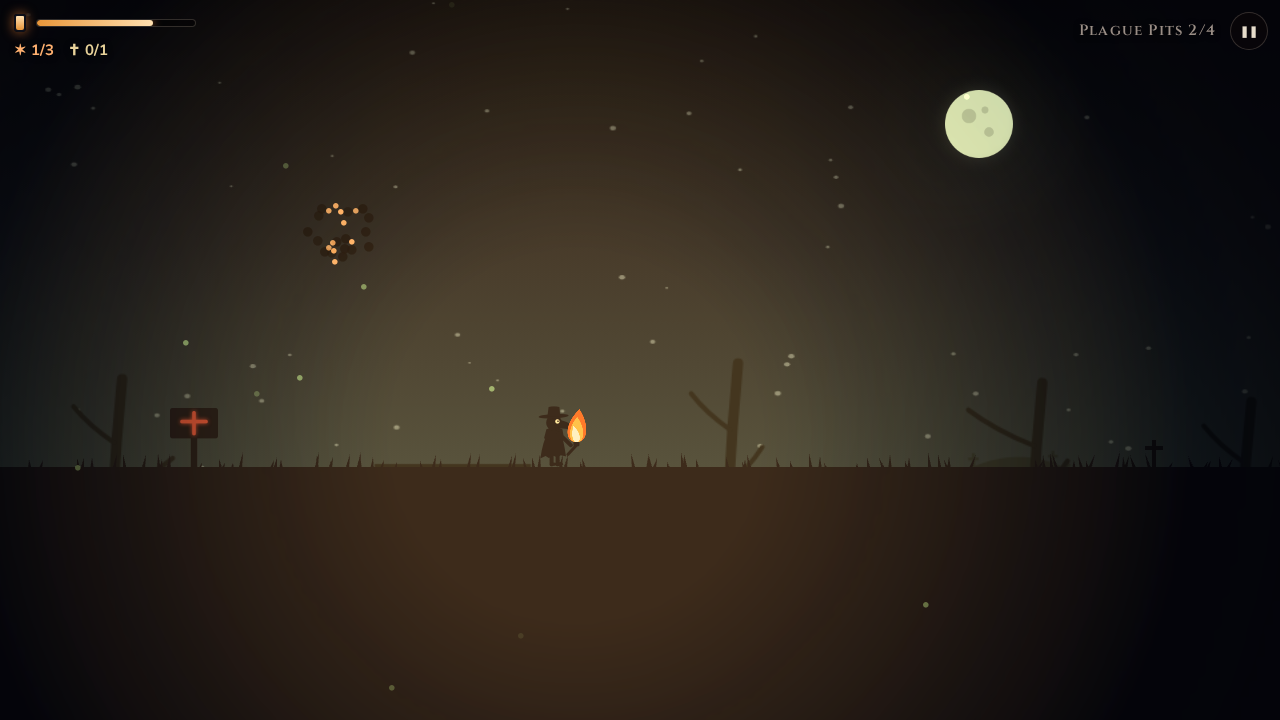
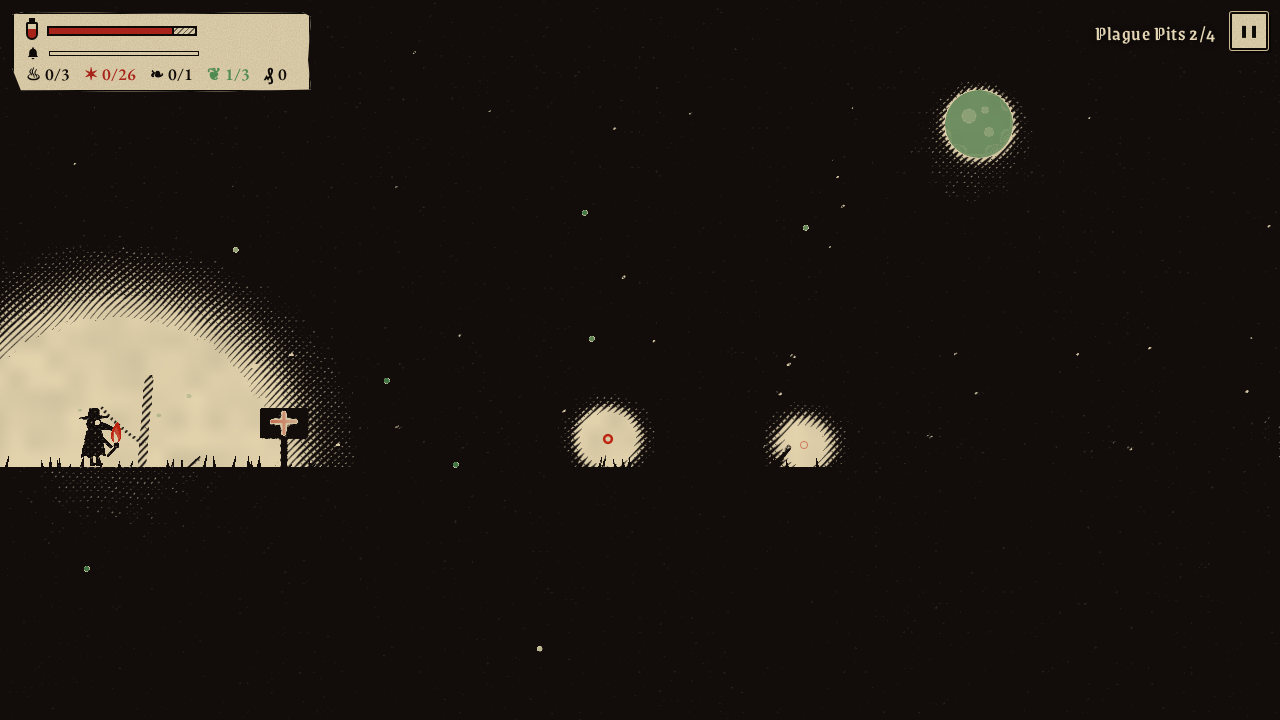
README s novými snímkami, opravené štatistiky denníka a zachránených
- README popisuje všetky nové prvky a má nové zábery v drevorezovom štýle (staré snímky odstránené).
- Štatistiky po leveli a na konci hry ukazujú strany denníka a počet zachránených (predtým ostali staré texty o relikviách).
- CLAUDE.md aktualizovaný.

Claude-Session: https://claude.ai/code/session_01Rh6E1MXbNhhRiwvBzFcm3J

diff --git a/src/ui/i18n.ts b/src/ui/i18n.ts
@@ -153,10 +153,10 @@ const en = {
   diedShade: 'The wraith took your breath…',
   diedGhoul: 'The infected tore you apart…',
   levelDone: 'The pyre burns',
-  stats: 'Embers {f}/{ft} · Relics {c}/{ct} · Time {time} · Deaths {d}',
+  stats: 'Embers {f}/{ft} · Diary pages {c}/{ct} · Time {time} · Deaths {d}',
   next: 'Next',
   replay: 'Replay',
-  victoryStats: 'Embers {f}/{ft} · Relics {c}/{ct} · Deaths {d}',
+  victoryStats: 'Saved {s}/{st} · Diary pages {c}/{ct} · Deaths {d}',
   comingSoon: 'Thank you for playing Miasma.',
   toMenu: 'Main menu',
   paused: 'Paused',
@@ -322,10 +322,10 @@ const sk: Record<Key, string> = {
   diedShade: 'Prízrak ti vzal dych…',
   diedGhoul: 'Nakazení ťa roztrhali…',
   levelDone: 'Hranica horí',
-  stats: 'Uhlíky {f}/{ft} · Relikvie {c}/{ct} · Čas {time} · Smrti {d}',
+  stats: 'Uhlíky {f}/{ft} · Strany denníka {c}/{ct} · Čas {time} · Smrti {d}',
   next: 'Ďalej',
   replay: 'Znova',
-  victoryStats: 'Uhlíky {f}/{ft} · Relikvie {c}/{ct} · Smrti {d}',
+  victoryStats: 'Zachránení {s}/{st} · Strany denníka {c}/{ct} · Smrti {d}',
   comingSoon: 'Ďakujeme, že si hral Miasmu.',
   toMenu: 'Hlavné menu',
   paused: 'Pauza',
@@ -489,10 +489,10 @@ const cs: Record<Key, string> = {
   diedShade: 'Přízrak ti vzal dech…',
   diedGhoul: 'Nakažení tě roztrhali…',
   levelDone: 'Hranice hoří',
-  stats: 'Uhlíky {f}/{ft} · Relikvie {c}/{ct} · Čas {time} · Smrti {d}',
+  stats: 'Uhlíky {f}/{ft} · Strany deníku {c}/{ct} · Čas {time} · Smrti {d}',
   next: 'Dál',
   replay: 'Znovu',
-  victoryStats: 'Uhlíky {f}/{ft} · Relikvie {c}/{ct} · Smrti {d}',
+  victoryStats: 'Zachránění {s}/{st} · Strany deníku {c}/{ct} · Smrti {d}',
   comingSoon: 'Děkujeme, že jsi hrál Miasmu.',
   toMenu: 'Hlavní menu',
   paused: 'Pauza',

diff --git a/README.md b/README.md
@@ -1,48 +1,62 @@
 # Miasma
 
-A dark silhouette platformer for adults. The plague has taken the city. You are the last plague doctor, and you carry the last fire.
+A dark platformer for adults, drawn like a medieval woodcut. The plague has taken the city. You are the last plague doctor: a torch in one hand, a cane in the other.
 
 **▶ Play online: https://darangonaut.github.io/miasma/**
 
 ![Miasma title screen](docs/screenshots/title.png)
 
-Miasma is the grim older sibling of [Lumen](https://github.com/darangonaut/lumen). It runs on the same engine but has a new hero, a new world and much less mercy:
+Miasma started as the grim older sibling of [Lumen](https://github.com/darangonaut/lumen), but it plays very differently:
 
-- **One touch kills.** Wraiths, the infected and iron spikes give no second chance.
-- **Fair warning.** Before a wraith strikes, it freezes and its eyes turn red. That is your moment.
-- **The torch burns fast.** Pitch runs out quickly, embers are rare and shrines are far apart. In total darkness you last only seconds.
-- **Enemies hunt.** The infected see your fire and come for you. You can outrun them, jump on their heads, throw a spark or flare the torch and burn them.
+- **Your light gives you away.** The bigger the flame, the farther the infected see you. A flared torch calls every infected far around, while a dying spark or a burning barricade lures them away. Rats are the opposite: they fear the light, and they tear you apart the moment you hide the torch or run out of pitch.
+- **The doctor’s cane.** Strike the infected to knock them back. Two blows fell one, and one blow into a pit, onto spikes or into the sewage is enough. Jumping on heads no longer helps.
+- **A mission in every quarter.** Burn all the plague nests (piles of shrouded bodies under a plague flag). Only then will the pyre at the end of the path light.
+- **The plague bell.** Every so often the bell tolls and the infected pour into the streets after you. Hide the torch and they only find the spot where you stood.
+- **Survivors and a choice.** Herbs go into your satchel (up to 3). Use one to cure your own infection, or give it to a survivor who begs for help. Those left behind turn when the bell tolls.
+- **An apothecary between levels.** The council pays you in groschen for the saved, the diary pages, the nests and the coins you find. Buy herbs, a larger flask, a better mask or an iron-shod cane.
+- **Cellars and locked houses.** Drop into cellars under the street for keys and coins. A key opens a house door with loot behind it, while the main path goes over the roof.
+- **A story with three endings.** Sixteen pages of the doctor’s diary tell what the council really wanted and what grows under his cloak. How the game ends depends on how many people you saved.
 
-Three mechanics are new to Miasma:
+Miasma also keeps the hard core of the original:
 
-- **Miasma.** Green plague clouds infect you, and full infection kills. Get through fast or burn the cloud away with a flared torch, because fire purifies. Healing herbs cure the infection.
-- **Burning barricades.** Plague barricades are too high to jump. Set them on fire with a spark or the torch, and the fire spreads to the planks next to them. It costs pitch.
-- **Hiding the torch.** Hold ↓ to hide the torch under your cloak. The infected stop seeing you and wraiths lose your trail, but you move slowly and the darkness starts to swallow you.
+- **One touch kills.** Wraiths, the infected, rats and iron spikes give no second chance.
+- **Fair warning.** Before a wraith strikes, it freezes and its eyes turn red.
+- **The torch burns fast.** In total darkness you last only seconds.
+- **Miasma, barricades, a hidden torch.** Green plague clouds infect you, and a flared torch burns them away. Plague barricades must be set on fire. Hold ↓ to hide the torch under your cloak.
+
+<table>
+<tr>
+<td><img src="docs/screenshots/quarter.png" alt="The cane"><br><sub>The cane against the infected, under a blood moon</sub></td>
+<td><img src="docs/screenshots/nest.png" alt="A burning plague nest"><br><sub>A plague nest burns while lightning tears the sky open</sub></td>
+</tr>
+<tr>
+<td><img src="docs/screenshots/barricade.png" alt="A burning barricade"><br><sub>A plague barricade in flames, which lures the infected</sub></td>
+<td><img src="docs/screenshots/survivor.png" alt="A survivor"><br><sub>A survivor begs for a herb: their life or yours?</sub></td>
+</tr>
+<tr>
+<td><img src="docs/screenshots/miasma.png" alt="Miasma"><br><sub>Catacombs: green miasma and the infection rising</sub></td>
+<td><img src="docs/screenshots/rats.png" alt="Rats"><br><sub>Rats wait at the edge of the light</sub></td>
+</tr>
+<tr>
+<td><img src="docs/screenshots/diary.png" alt="Diary page"><br><sub>A page from the plague doctor’s diary</sub></td>
+<td><img src="docs/screenshots/shop.png" alt="Apothecary"><br><sub>The apothecary after a level</sub></td>
+</tr>
+<tr>
+<td><img src="docs/screenshots/pits.png" alt="Plague Pits"><br><sub>Plague Pits: wind, graves and a sickly moon</sub></td>
+<td><img src="docs/screenshots/cathedral.png" alt="The Cathedral"><br><sub>The Cathedral: arches in the dark</sub></td>
+</tr>
+</table>
 
 ## Four worlds
 
 |     | World                  | What awaits you                                                 |
 | --- | ---------------------- | --------------------------------------------------------------- |
-| 1   | **Quarantine Quarter** | rain, a blood moon, rooftops, rotten planks, the first infected |
-| 2   | **Catacombs**          | foul sewage, slimy stones, falling masonry, swarms of flies     |
+| 1   | **Quarantine Quarter** | rain, a blood moon, rooftops, barricades, the first infected    |
+| 2   | **Catacombs**          | sewage, slimy stones, rat nests, miasma rising from the bones   |
 | 3   | **Plague Pits**        | an open cemetery, wind in gusts, lightning, great wraiths       |
-| 4   | **The Cathedral**      | hanging platforms, the bell tower, the crypt and the final pyre |
+| 4   | **The Cathedral**      | hanging platforms, the bell tower, the crypt and the great pyre |
 
-Each world has 4 levels, 16 in total. At the end of every path you light a pyre, because fire purifies.
-
-<table>
-<tr>
-<td><img src="docs/screenshots/quarter.png" alt="Quarantine Quarter"><br><sub>Quarantine Quarter: rain and a blood moon over the plague city</sub></td>
-<td><img src="docs/screenshots/wraiths.png" alt="Plague wraiths"><br><sub>A flared torch burns everything close, but eats pitch quickly</sub></td>
-</tr>
-<tr>
-<td><img src="docs/screenshots/catacombs.png" alt="Catacombs"><br><sub>Catacombs: walls of skulls and foul sewage</sub></td>
-<td><img src="docs/screenshots/pits.png" alt="Plague Pits"><br><sub>Plague Pits: gravestones, dead trees and a sickly moon</sub></td>
-</tr>
-<tr>
-<td colspan="2"><img src="docs/screenshots/cathedral.png" alt="The Cathedral"><br><sub>The Cathedral: stained glass faintly glowing in the dark</sub></td>
-</tr>
-</table>
+Each world has 4 levels, 16 in total.
 
 ## How to play
 
@@ -50,14 +64,15 @@ Each world has 4 levels, 16 in total. At the end of every path you light a pyre,
 | ---------------------------- | ---------------- | -------- |
 | Walk                         | ← → / A D        | ◀ ▶      |
 | Jump (hold to float further) | Space / ↑ / W    | ⤒        |
+| Strike with the cane         | V / E            | ⚚        |
 | Throw a spark                | C / F            | ✸        |
 | Flare the torch              | Shift / X (hold) | ✦ (hold) |
+| Hide the torch               | ↓ / S (hold)     | ◐ (hold) |
+| Use or give a herb           | Q / H            | ❦        |
 | Pause                        | Esc / P          | ❚❚       |
 
-- **Embers** keep the torch burning. **Relics** are hidden secrets.
+- The scrap of paper in the HUD shows the pitch flask, the infection, the time until the next bell, burnt nests ♨, embers ✶, diary pages ❧, herbs ❦, groschen ₰ and keys ⚷.
 - **Shrines** are checkpoints. Light the candle to save your progress and refill the torch.
-- Jump on enemies' heads, throw sparks or flare the torch. A great wraith takes three hits.
-- On the cemetery, jump when the wind dies down. Standing still, it can't move you, and behind a gravestone you are sheltered.
 
 ## Languages and mobile
 
@@ -67,7 +82,7 @@ English (default), Slovak and Czech; switch on the title screen. The game works 
 
 ## Development
 
-TypeScript, Vite and PixiJS 8. All graphics are vector shapes drawn in code, and all music and sound effects are synthesized with the Web Audio API, so there are no image or audio files.
+TypeScript, Vite and PixiJS 8. The graphics are vector shapes drawn in code. A full-screen shader (`src/render/woodcut.ts`) turns them into a woodcut: yellowed paper, hatching that gets denser in the shadows, solid black darkness, and colour only for fire (vermilion) and plague (verdigris). Music and sound effects are synthesized with the Web Audio API. The music is a Gregorian-style chant: a male choir built from formant filters, an ison drone and a tolling bell. There are no image or audio files.
 
 ```bash
 npm install
@@ -76,7 +91,8 @@ npm test             # tests, including a bot that proves every level can be fin
 npm run deploy:pages # build and publish to GitHub Pages
 ```
 
-- `src/game/` holds pure game logic (no PixiJS or DOM).
-- Levels are ASCII maps generated by `scripts/build_levels.py`. The legend is in `src/game/level.ts`.
-- `src/render/` holds the renderer, the vector art and the plague doctor.
-- `src/audio/` holds sound effects and music (organ chorale, viol and a tolling bell).
+- `src/game/` holds pure game logic (no PixiJS or DOM): the game, the save with the apothecary (`save.ts`) and the endings (`story.ts`).
+- Levels are ASCII maps generated by `scripts/build_levels.py`. The legend is in `src/game/level.ts`. The bot burns plague nests on its own, and the tests check that pitch lasts with a reserve.
+- `src/render/` holds the renderer, the vector art, the plague doctor and the woodcut shader.
+- `src/audio/` holds sound effects and the chant.
+- Add `?classic` to the URL to turn the woodcut shader off.

diff --git a/CLAUDE.md b/CLAUDE.md
@@ -7,12 +7,17 @@ Temná plošinovka pre dospelých (morový lekár s fakľou), postavená na engi
   legenda znakov je v `src/game/level.ts`. Každý level má ručne navrhnutú prvú polovicu a druhú polovicu
   poskladanú z blokov (`Gen.block`, obťažnosť rastie so svetom). Test `tests/levels.test.ts` overuje botom,
   že sa každý level dá prejsť a že smola vystačí aj bez dopĺňania (rezerva aspoň 20 %).
-- Nové prvky oproti Lumenu: miazma (`~`, nákaza, spáli ju rozžiarenie), byliny (`h`), horľavé barikády (`x`,
-  podpáli iskra alebo rozžiarenie, oheň sa šíri), ukrytie fakle pod plášť (↓: menej svetla, nevidia ťa, tma pohlcuje).
+- Odlíšenie od Lumenu: svetlo prezrádza (dohľad nakazených rastie s polomerom, rozžiarenie ich privolá,
+  zhasnutá iskra a oheň lákajú), potkany (`r`) sa boja svetla a útočia pri ukrytej fakli/bez smoly,
+  palica (V/E, `swingCane`, odpálenie do priepasti), morové hniezda (`n`, bez nich sa hranica nezapáli),
+  morový zvon (`updateBell`, besnenie), preživší (`u`) a byliny v brašni (Q), kľúče/dvere/groše (`k`, `D`, `$`)
+  v pivniciach a domoch, lekáreň a výbava (`src/game/save.ts`), denník a tri konce (`src/game/story.ts`).
+  Staršie prvky: miazma (`~`), barikády (`x`), ukrytie fakle (↓).
 - Obťažnosť: smrť na jeden zásah, prízrak pred výpadom varuje (`windup`), nakazení (`g`) chodia po zemi.
-  V kóde ostali názvy z Lumenu: olej = smola fakle, svetluška = uhlík, kryštál = relikvia, lampa = kaplnka,
-  vatra = hranica, tieň = prízrak, mora = roj múch, cencúľ = padajúce murivo, huba = plachta.
-- Grafika je vektorová v siluetovom štýle a kreslí sa v kóde (`src/render/vector.ts`, postava `src/render/doctor.ts`).
+  V kóde ostali názvy z Lumenu: olej = smola fakle, svetluška = uhlík, kryštál = strana denníka, lampa = kaplnka,
+  vatra = hranica, tieň = prízrak, cencúľ = padajúce murivo, huba = plachta.
+- Grafika je vektorová (`src/render/vector.ts`, postava `src/render/doctor.ts`) a celú scénu aj úvodnú obrazovku
+  prekreslí drevorezový shader (`src/render/woodcut.ts`, `?classic` ho vypne). Hudba je chorál (`src/audio/music.ts`).
 - Texty rozhrania len cez `t()` z `src/ui/i18n.ts` (angličtina — predvolená a základ kľúčov, slovenčina, čeština).
 - Myslieť na mobil: dotykové tlačidlá, telefón na šírku, `env(safe-area-inset-*)`.
-- Overenie: `npm run typecheck && npm run lint && npm test`.
+- Overenie: `npm run typecheck && npm run lint && npm test` (typecheck je `tsc -b`; `tsc -p .` nekontroluje nič).
